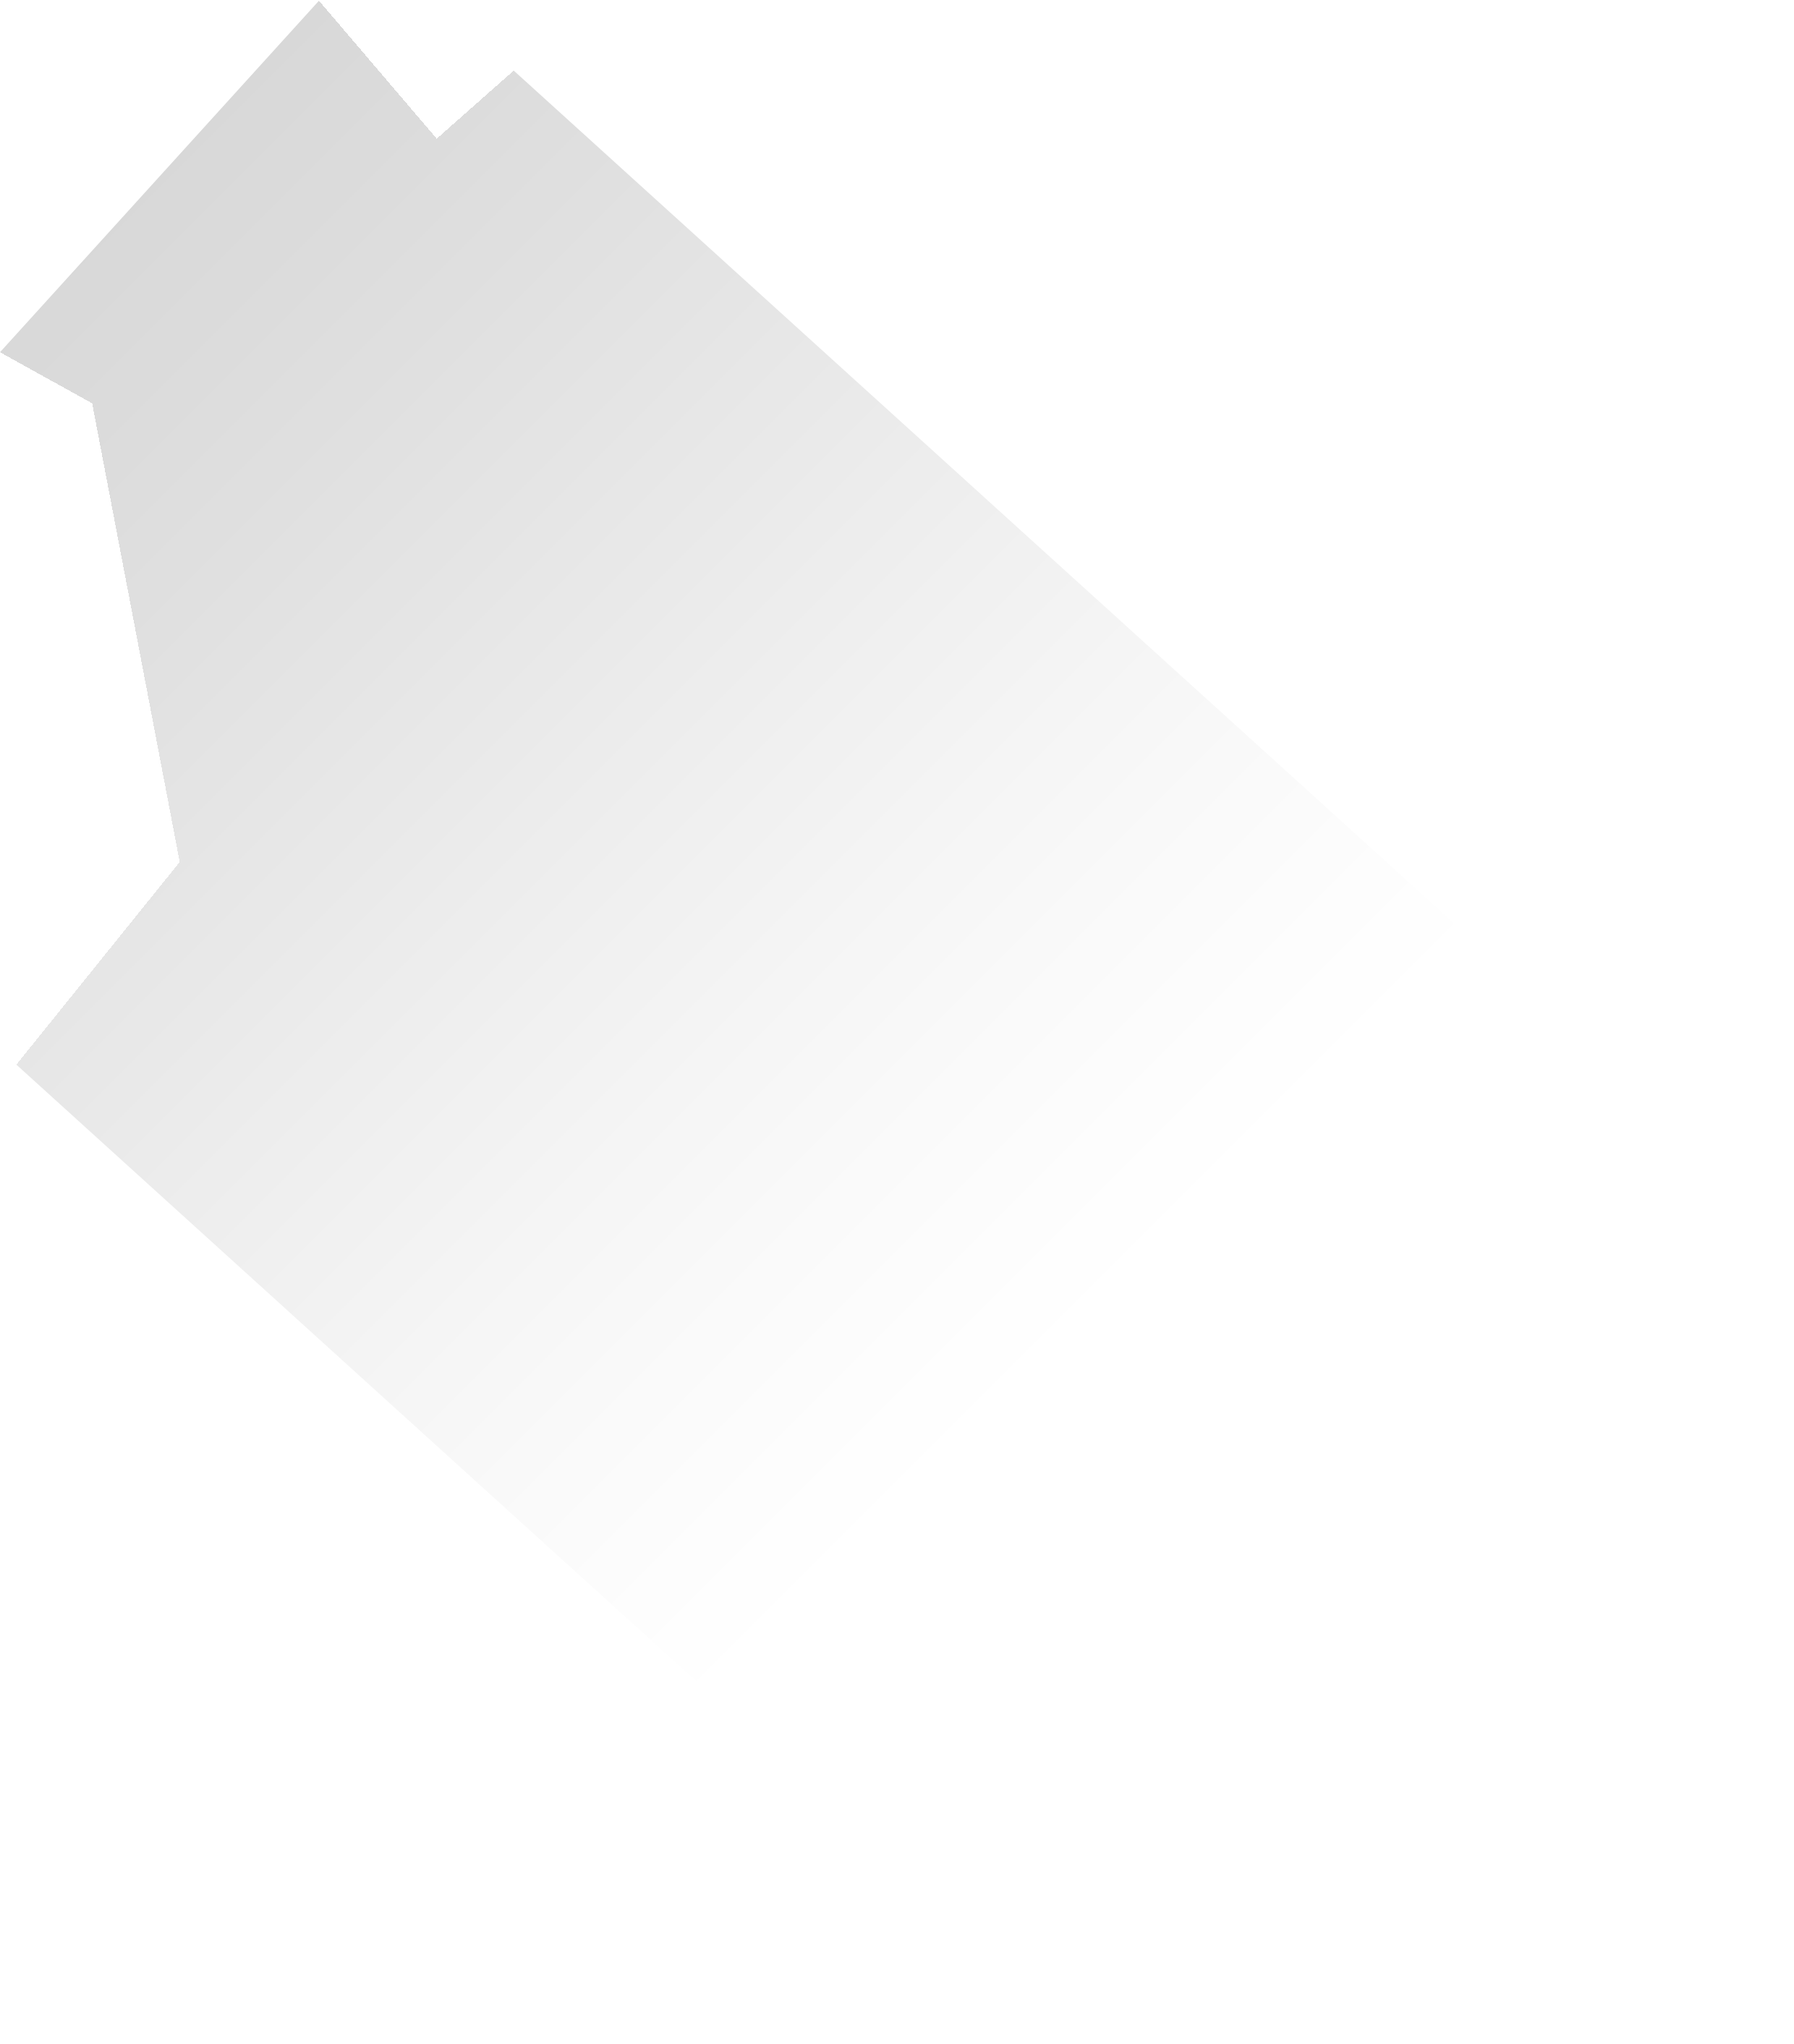
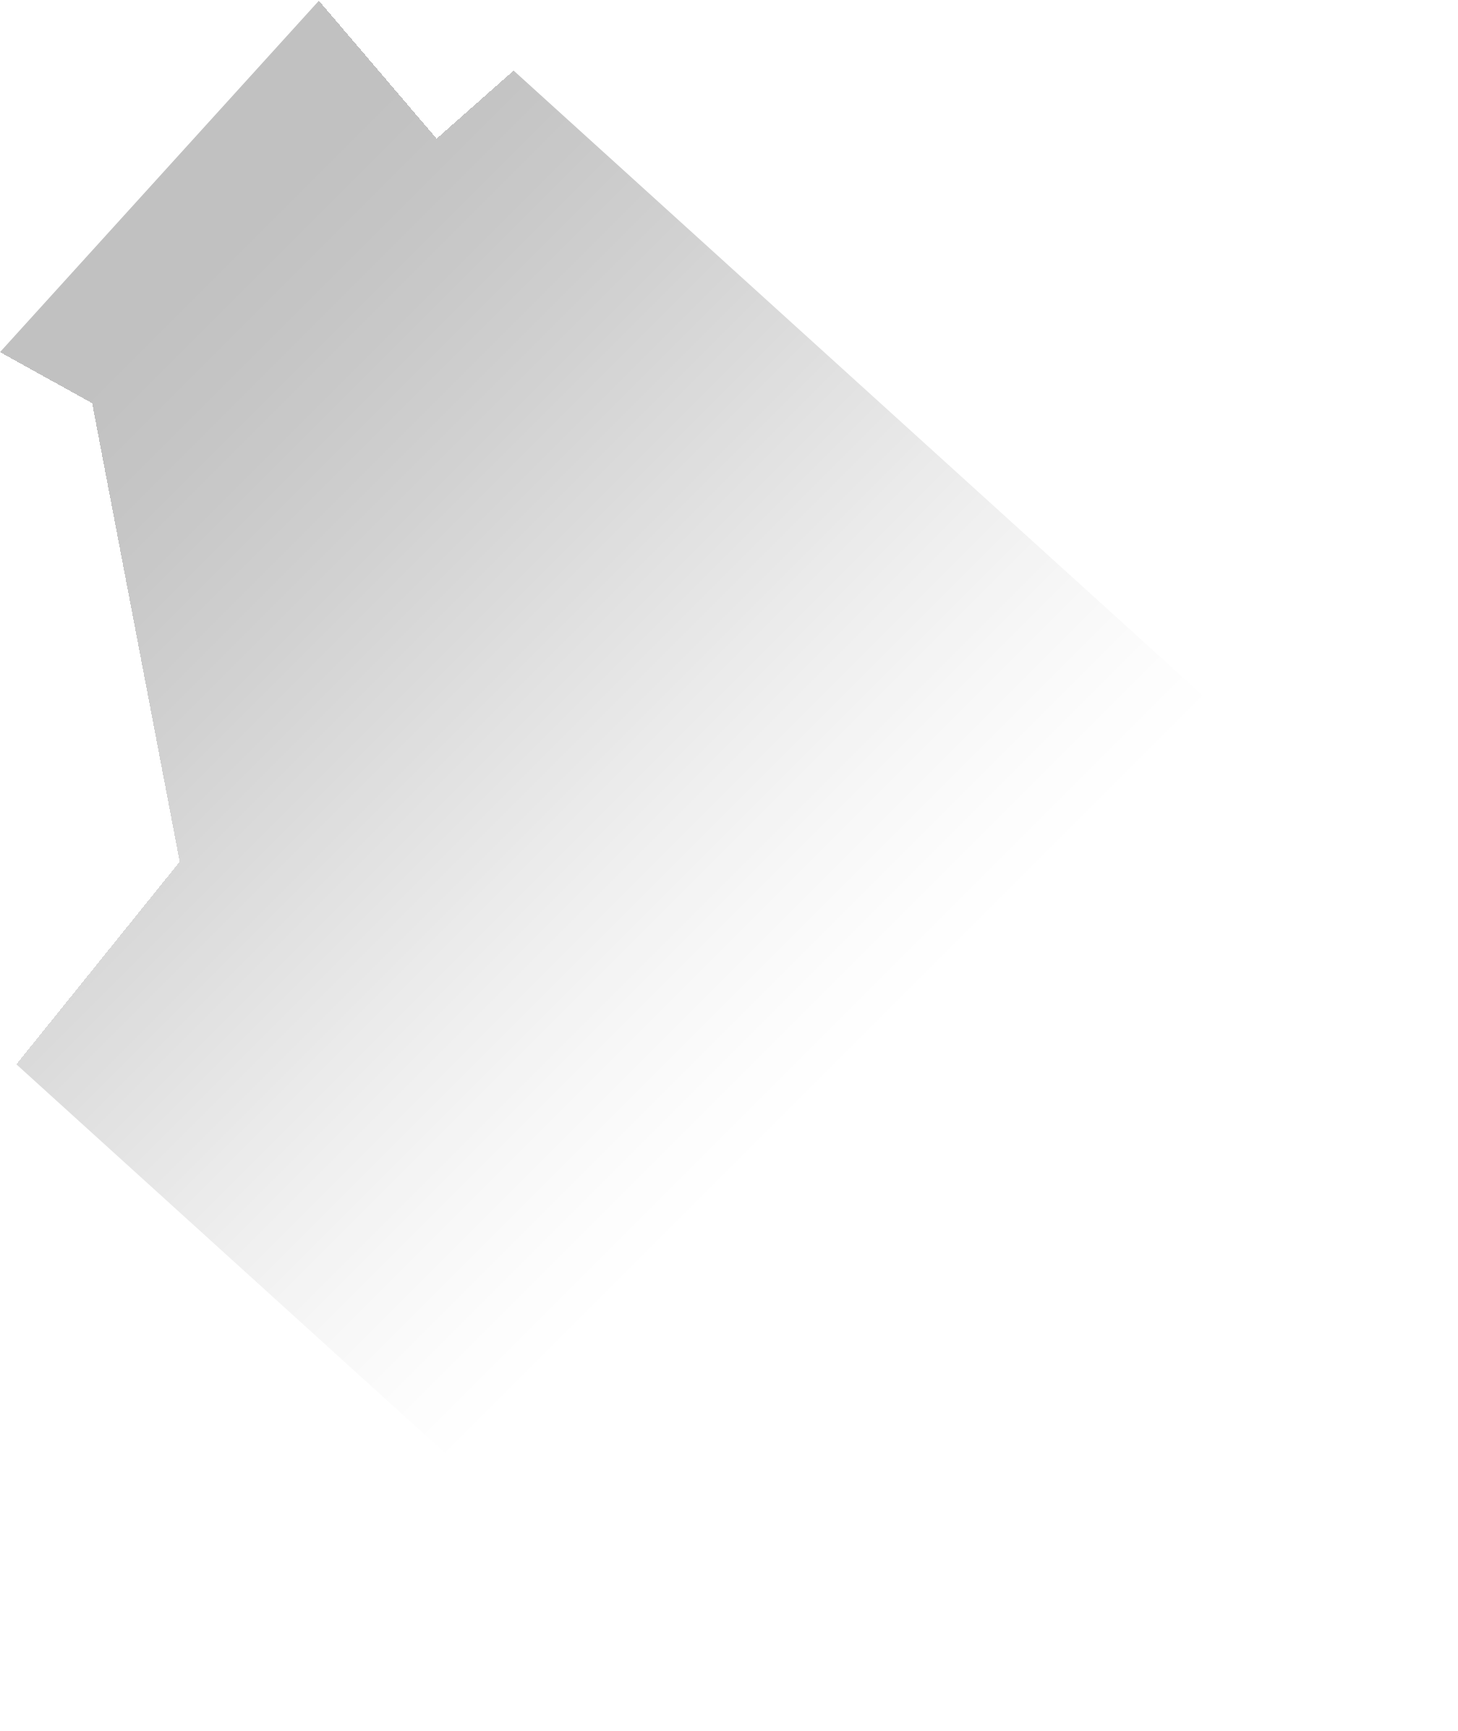
minor updates

Changed region(s): [[0.0, 0.0, 0.625, 0.3709], [0.0, 0.5564, 0.1562, 0.68], [0.0, 0.3709, 0.125, 0.5255]]

diff --git a/css/styles.css b/css/styles.css
@@ -2618,8 +2618,8 @@ fieldset:disabled a.btn {
 
 .btn-primary {
   color: #fff;
-  background-color:var(--green);
-  border-color:var(--green);
+  background-color: var(--green);
+  border-color: var(--green);
 }
 .btn-primary:hover {
   color: #fff;
@@ -10577,6 +10577,7 @@ a.text-dark:focus {
 .masthead {
   padding-top: calc(6rem + 74px);
   padding-bottom: 6rem;
+  overflow: hidden;
 }
 .masthead .masthead-heading {
   font-size: 2.75rem;
@@ -10586,19 +10587,11 @@ a.text-dark:focus {
   font-size: 1.25rem;
 }
 .masthead .masthead-avatar {
-  width: 12rem;
+  width: 13.5rem;
   position: relative;
-  z-index: 100px;
-}
-
-
-.masthead .masthead-shadow {
-  width: 23.2rem;
-  transform: translateY(15px);
+  z-index: -100px;
   
-  transform: translateX(112px);
-  position: absolute;
-  
+  transform: translateY(49px);
 }
 
 @media (min-width: 992px) {
@@ -10718,6 +10711,6 @@ form .row:first-child .floating-label-form-group {
   background-color: var(--green);
 }
 
-.app-link{
+.app-link {
   width: 15rem;
 }

diff --git a/index.html b/index.html
@@ -83,8 +83,6 @@
     <header class="masthead bg-primary text-white text-center">
       <div class="container d-flex align-items-center flex-column">
         <!-- Masthead Avatar Image-->
-
-        <img class="masthead-shadow" src="assets/img/shadow.png" alt="..." />
         <img class="masthead-avatar mb-5" src="assets/img/logo.png" alt="..." />
         <!-- Masthead Heading-->
         <h1 class="masthead-heading text-uppercase mb-0">Adobo</h1>
